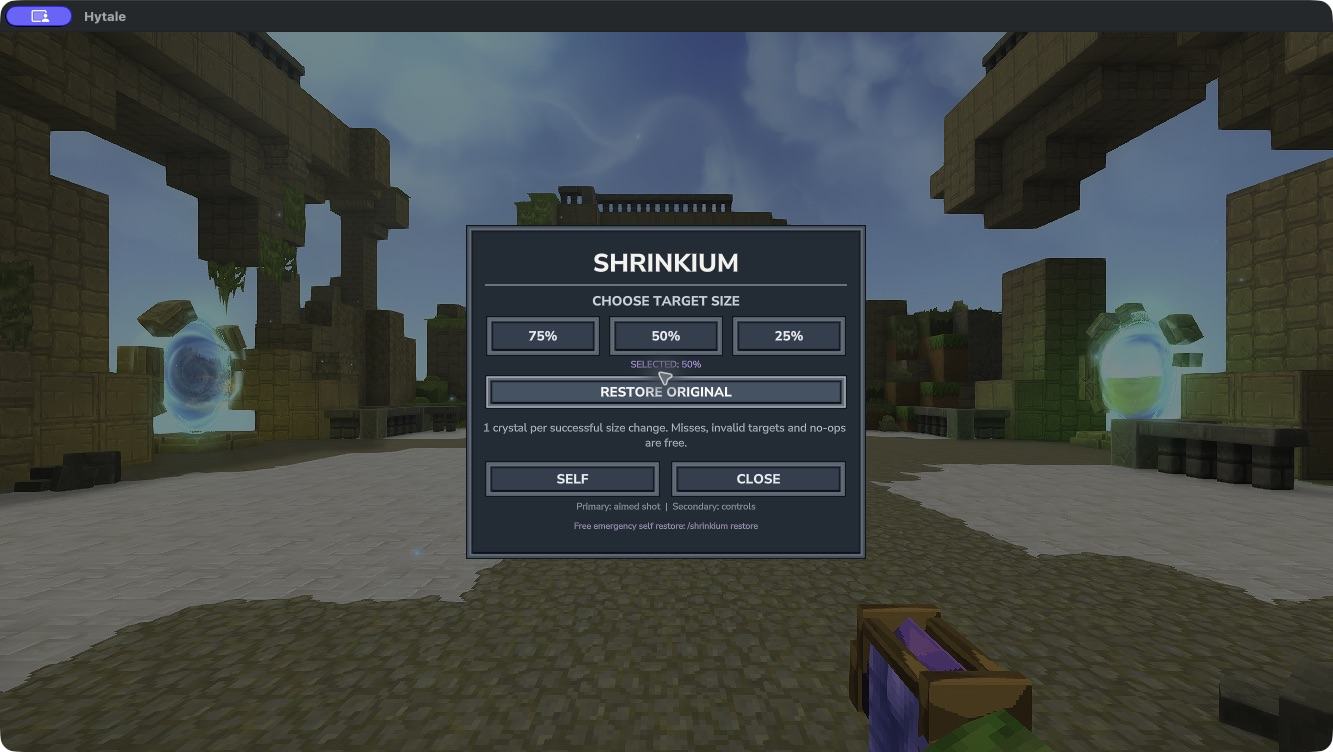
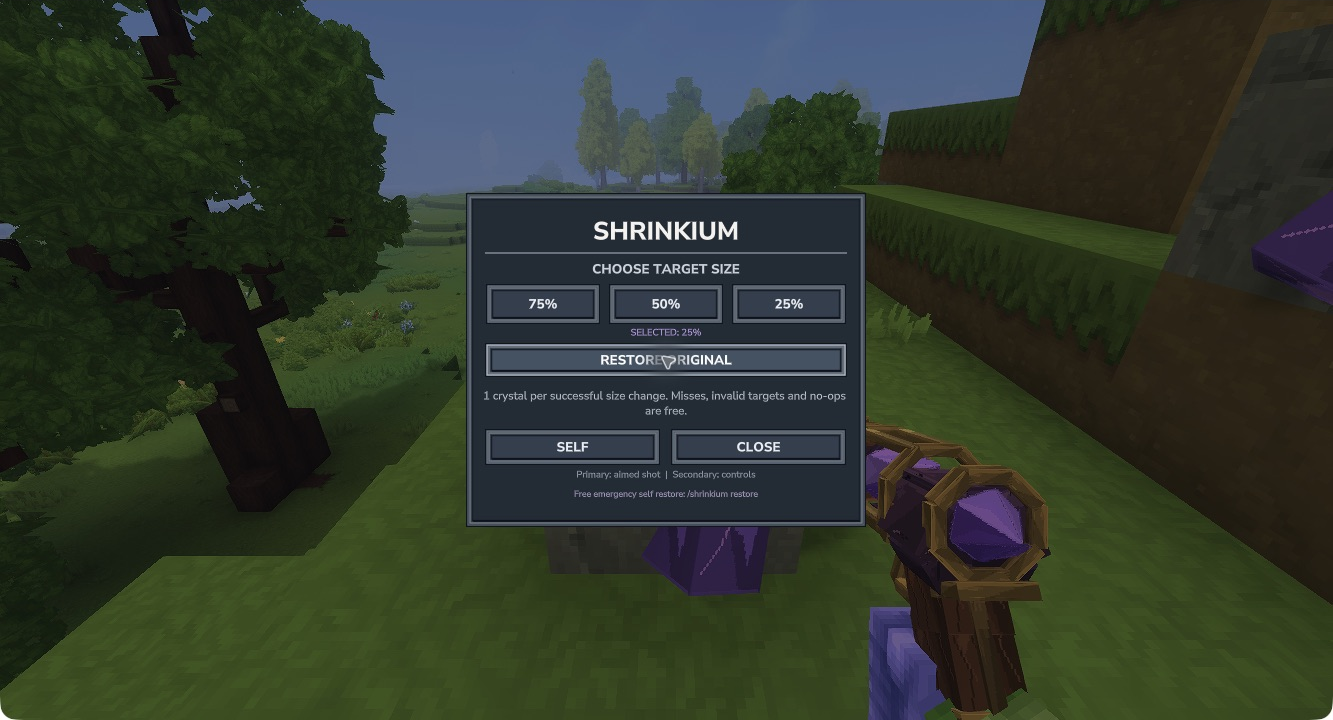
Refresh ray, ore and size-control player imagery

diff --git a/versions/hytale0.7/index.md b/versions/hytale0.7/index.md
@@ -8,7 +8,7 @@ Carry a crystal-powered ray, choose a size and explore familiar spaces at a diff
 ::: button title:"Start here" url:"installation" icon:download
 ::: /hero
 
-![Shrink Ray held in the world](/assets/hytale0.7/screenshots/ray-in-hand.png)
+![Shrink Ray held in the world](/assets/hytale0.7/screenshots/ray-and-ore.png)
 
 *Native Hytale 0.7.4. The brass cage, violet crystal reactor and walnut grip are the
 current in-game ray model.*
@@ -23,9 +23,10 @@ restoration. See [first steps](getting-started.md) for the full route and its cu
 playtest limits, [recipes](recipes.md) for quantities, and [safe restoration](restoration.md)
 before trying a narrow passage.
 
-::: callout type:warning title:"Private development"
-Use a backed-up test world. Ordinary cave acquisition/crafting, full camera behavior,
-visual/listening acceptance and real second-client behavior remain unfinished.
+::: callout type:warning title:"Before you play"
+Keep world and player backups. The ray and corrected ore have been playtested in
+single-player. The full ordinary survival acquisition route and real second-client
+behavior remain unverified.
 After free restoration the ray may be hidden; change hotbar slots and select it again.
 ::: /callout
 

diff --git a/versions/hytale0.7/compatibility.md b/versions/hytale0.7/compatibility.md
@@ -20,9 +20,11 @@ Shrinking, charge rules, aimed animal targeting, normal miniature reload, obstru
 growth and emergency self recovery have native observations. The latest ray model's
 mount, first-person framing and inventory/hotbar icon have also been checked.
 
-Ordinary cave acquisition/crafting, complete skin/camera behavior, all-angle model
-and beam visuals, human listening and real second-client behavior remain unverified.
-Do not treat the private build as a finished multiplayer or survival release.
+The corrected ore deposits cover all six faces, and their native surfaces and
+inventory/hotbar icon have been checked. Single-player playtesting is complete for
+the observed ray loop. The full ordinary survival acquisition route, complete
+skin/camera behavior, beam/listening coverage and real second-client behavior remain
+unverified; the Release channel does not establish those additional checks.
 
 ## Settings and other mods
 

diff --git a/versions/hytale0.7/getting-started.md b/versions/hytale0.7/getting-started.md
@@ -31,7 +31,7 @@ guide as proof of a finished survival progression.
 4. Move around the open area and check your view and clearance.
 5. Return to clear space and use the [restoration instructions](restoration.md).
 
-![Quarter-size viewpoint](/assets/hytale0.7/screenshots/quarter-size.png)
+![Quarter-size viewpoint](/assets/hytale0.7/screenshots/quarter-view.png)
 
 *Native Hytale 0.7.4: selecting 25% and using SELF lowers the viewpoint. The crystal
 count changes from 8 to 7. This test location was supplied with items; it does not

diff --git a/versions/hytale0.7/recipes.md b/versions/hytale0.7/recipes.md
@@ -27,3 +27,7 @@ time while you remain small.
 The item IDs are **SH_Ray**, **SH_Crystal** and **SH_Ore_Stone**. They can help identify
 an asset when reporting a problem; the player-facing names are Shrink Ray, Shrinkium
 Crystal and Shrinkium Crystal Ore.
+
+![The Shrink Ray and purple crystal ore in native Hytale](/assets/hytale0.7/screenshots/ray-and-ore.png)
+
+*Native Hytale 0.7.4. The placed ore has raised crystal deposits on all six faces.*

diff --git a/versions/hytale0.7/ray.md b/versions/hytale0.7/ray.md
@@ -15,8 +15,7 @@ title: Using the ray
 
 ![The native size panel](/assets/hytale0.7/screenshots/ray-controls.png)
 
-*Native Hytale 0.7.4. The controls are unchanged; this earlier capture shows the previous
-ray appearance. The world and held-model pages show the current artwork.*
+*Native Hytale 0.7.4: choose a size, use SELF, or select restoration for the next activation.*
 
 ## Charge rules
 
